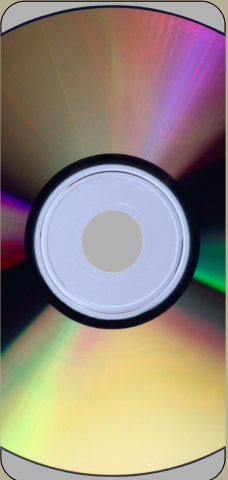
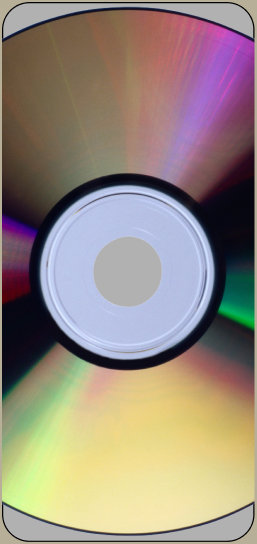
Replaced images & renamed files

diff --git a/src/Main.js b/src/Main.js
@@ -3,17 +3,17 @@
 import React, { Component } from "react";
 import Image from './Image/Image.js';
 import Image2 from './Image2/Image2.js';
-import Vinyl from './Vinyl/Vinyl.js';
-import CD from './CD/CD.js';
-import Cassette from './Cassette/Cassette.js';
+import VinylImage from './Vinyl/Vinyl.js';
+import CDImage from './CD/CD.js';
+import CassetteImage from './Cassette/Cassette.js';
 import {
     Route, Routes,
     NavLink,
     HashRouter
 } from "react-router-dom";
-import Home from "./Home";
-import Stuff from "./Stuff";
-import CCI from "./CCI";
+import Vinyl from "./Vinyl";
+import CD from "./CD";
+import Cassette from "./Cassette";
 
 class Main extends Component {
     render() {
@@ -23,21 +23,21 @@ class Main extends Component {
                 <div>
                     <div className="image-container">
                         <div className="item">
-                            <Vinyl />
+                            <VinylImage />
                             <h1>
                                 <NavLink to="/">SHOP VINYL</NavLink>
                             </h1>
                         </div>
                         <div className="item">
-                            <CD />
+                            <CDImage />
                             <h1>
-                                <NavLink to="/Stuff">SHOP CDS</NavLink>
+                                <NavLink to="/CD">SHOP CDS</NavLink>
                             </h1>
                         </div>
                         <div className="item">
-                            <Cassette />
+                            <CassetteImage />
                             <h1>
-                                <NavLink to="/CCI">SHOP CASSETTES</NavLink>
+                                <NavLink to="/Cassette">SHOP CASSETTES</NavLink>
                             </h1>
                         </div>
                     </div>
@@ -46,9 +46,9 @@ class Main extends Component {
                     </footer>
                     <div className="content">
                         <Routes>
-                            <Route path="/" element={<Home />} />
-                            <Route path="/Stuff" element={<Stuff />} />
-                            <Route path="/CCI" element={<CCI />} />
+                            <Route path="/" element={<Vinyl />} />
+                            <Route path="/CD" element={<CD />} />
+                            <Route path="/Cassette" element={<Cassette />} />
                         </Routes>
                     </div>
                 </div>

diff --git a/src/Cassette.js b/src/Cassette.js
@@ -1,6 +1,8 @@
+// Cassette.js
+
 import React, { Component } from "react";
  
-class Stuff extends Component {
+class Cassette extends Component {
   render() {
     return (
       <div>
@@ -11,4 +13,4 @@ class Stuff extends Component {
   }
 }
  
-export default Stuff;
+export default Cassette;

diff --git a/src/Vinyl.js b/src/Vinyl.js
@@ -1,6 +1,8 @@
+// Vinyl.js
+
 import React, { Component } from "react";
  
-class Home extends Component {
+class Vinyl extends Component {
   render() {
     return (
       <div>
@@ -11,4 +13,4 @@ class Home extends Component {
   }
 }
  
-export default Home;
+export default Vinyl;

diff --git a/src/CD.js b/src/CD.js
@@ -1,6 +1,8 @@
+// CD.js
+
 import React, { Component } from "react";
  
-class Stuff extends Component {
+class CD extends Component {
   render() {
     return (
       <div>
@@ -11,4 +13,4 @@ class Stuff extends Component {
   }
 }
  
-export default Stuff;
+export default CD;

diff --git a/src/Cassette/Cassette.js b/src/Cassette/Cassette.js
@@ -2,7 +2,7 @@ import React from 'react';
 import './Cassette.css';
 import cassette from './Cassette.png'
 
-export default function Cassette() {
+export default function CassetteImage() {
   return(
     <div className="cassette">
         <img alt="Cassette" src={cassette} />

diff --git a/src/Vinyl/Vinyl.js b/src/Vinyl/Vinyl.js
@@ -2,7 +2,7 @@ import React from 'react';
 import './Vinyl.css';
 import vinyl from './Vinyl.png'
 
-export default function Vinyl() {
+export default function VinylImage() {
   return(
     <div className="vinyl">
         <img alt="Vinyl" src={vinyl} />

diff --git a/src/CD/CD.js b/src/CD/CD.js
@@ -2,7 +2,7 @@ import React from 'react';
 import './CD.css';
 import cd from './CD.png'
 
-export default function CD() {
+export default function CDImage() {
   return(
     <div className="cd">
         <img alt="CD" src={cd} />

diff --git a/src/index.css b/src/index.css
@@ -69,6 +69,6 @@ a {
   line-height: normal;
 }
 
-.active {
+.active, .active:hover {
   text-decoration: underline;
 }
